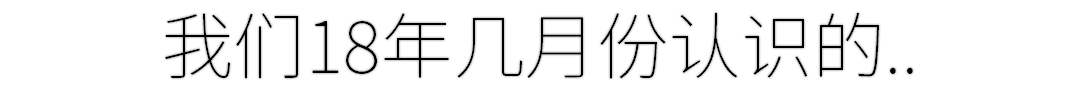
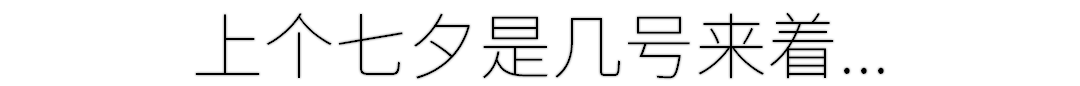
change4

Changed region(s): [[0.1528, 0.1628, 0.8556, 0.9302]]

diff --git a/css/site_global.css b/css/site_global.css
@@ -1,1 +1,1 @@
-html{min-height:100%;min-width:100%;-ms-text-size-adjust:none;}body,div,dl,dt,dd,ul,ol,li,nav,h1,h2,h3,h4,h5,h6,pre,code,form,fieldset,legend,input,button,textarea,p,blockquote,th,td,a{margin:0px;padding:0px;border-width:0px;border-style:solid;border-color:transparent;-webkit-transform-origin:left top;-ms-transform-origin:left top;-o-transform-origin:left top;transform-origin:left top;background-repeat:no-repeat;}button.submit-btn{-moz-box-sizing:content-box;-webkit-box-sizing:content-box;box-sizing:content-box;}.transition{-webkit-transition-property:background-image,background-position,background-color,border-color,border-radius,color,font-size,font-style,font-weight,letter-spacing,line-height,text-align,box-shadow,text-shadow,opacity;transition-property:background-image,background-position,background-color,border-color,border-radius,color,font-size,font-style,font-weight,letter-spacing,line-height,text-align,box-shadow,text-shadow,opacity;}.transition *{-webkit-transition:inherit;transition:inherit;}table{border-collapse:collapse;border-spacing:0px;}fieldset,img{border:0px;border-style:solid;-webkit-transform-origin:left top;-ms-transform-origin:left top;-o-transform-origin:left top;transform-origin:left top;}address,caption,cite,code,dfn,em,strong,th,var,optgroup{font-style:inherit;font-weight:inherit;}del,ins{text-decoration:none;}li{list-style:none;}caption,th{text-align:left;}h1,h2,h3,h4,h5,h6{font-size:100%;font-weight:inherit;}input,button,textarea,select,optgroup,option{font-family:inherit;font-size:inherit;font-style:inherit;font-weight:inherit;}.form-grp input,.form-grp textarea{-webkit-appearance:none;-webkit-border-radius:0;}body{font-family:Arial, Helvetica Neue, Helvetica, sans-serif;text-align:left;font-size:14px;line-height:17px;word-wrap:break-word;text-rendering:optimizeLegibility;-moz-font-feature-settings:'liga';-ms-font-feature-settings:'liga';-webkit-font-feature-settings:'liga';font-feature-settings:'liga';}a{color:inherit;text-decoration:inherit;}a:link{color:#FFFFFF;text-decoration:inherit;}a:visited{color:#FFFFFF;text-decoration:inherit;}a:hover{color:#FFFFFF;text-decoration:inherit;}a:active{color:#FFFFFF;text-decoration:inherit;}a.nontext{color:black;text-decoration:none;font-style:normal;font-weight:normal;}.normal_text{color:#000000;direction:ltr;font-family:Arial, Helvetica Neue, Helvetica, sans-serif;font-size:14px;font-style:normal;font-weight:normal;letter-spacing:0px;line-height:17px;text-align:left;text-decoration:none;text-indent:0px;text-transform:none;vertical-align:0px;padding:0px;}.list0 li:before{position:absolute;right:100%;letter-spacing:0px;text-decoration:none;font-weight:normal;font-style:normal;}.rtl-list li:before{right:auto;left:100%;}.nls-None > li:before,.nls-None .list3 > li:before,.nls-None .list6 > li:before{margin-right:6px;content:'•';}.nls-None .list1 > li:before,.nls-None .list4 > li:before,.nls-None .list7 > li:before{margin-right:6px;content:'○';}.nls-None,.nls-None .list1,.nls-None .list2,.nls-None .list3,.nls-None .list4,.nls-None .list5,.nls-None .list6,.nls-None .list7,.nls-None .list8{padding-left:34px;}.nls-None.rtl-list,.nls-None .list1.rtl-list,.nls-None .list2.rtl-list,.nls-None .list3.rtl-list,.nls-None .list4.rtl-list,.nls-None .list5.rtl-list,.nls-None .list6.rtl-list,.nls-None .list7.rtl-list,.nls-None .list8.rtl-list{padding-left:0px;padding-right:34px;}.nls-None .list2 > li:before,.nls-None .list5 > li:before,.nls-None .list8 > li:before{margin-right:6px;content:'-';}.nls-None.rtl-list > li:before,.nls-None .list1.rtl-list > li:before,.nls-None .list2.rtl-list > li:before,.nls-None .list3.rtl-list > li:before,.nls-None .list4.rtl-list > li:before,.nls-None .list5.rtl-list > li:before,.nls-None .list6.rtl-list > li:before,.nls-None .list7.rtl-list > li:before,.nls-None .list8.rtl-list > li:before{margin-right:0px;margin-left:6px;}.TabbedPanelsTab{white-space:nowrap;}.MenuBar .MenuBarView,.MenuBar .SubMenuView{display:block;list-style:none;}.MenuBar .SubMenu{display:none;position:absolute;}.NoWrap{white-space:nowrap;word-wrap:normal;}.rootelem{margin-left:auto;margin-right:auto;}.colelem{display:inline;float:left;clear:both;}.clearfix:after{content:"\0020";visibility:hidden;display:block;height:0px;clear:both;}*:first-child+html .clearfix{zoom:1;}.clip_frame{overflow:hidden;}.popup_anchor{position:relative;width:0px;height:0px;}.allow_click_through *{pointer-events:auto;}.popup_element{z-index:100000;}.svg{display:block;vertical-align:top;}span.wrap{content:'';clear:left;display:block;}span.actAsInlineDiv{display:inline-block;}.position_content,.excludeFromNormalFlow{float:left;}.preload_images{position:absolute;overflow:hidden;left:-9999px;top:-9999px;height:1px;width:1px;}.preload{height:1px;width:1px;}.animateStates{-webkit-transition:0.3s ease-in-out;-moz-transition:0.3s ease-in-out;-o-transition:0.3s ease-in-out;transition:0.3s ease-in-out;}[data-whatinput="mouse"] *:focus,[data-whatinput="touch"] *:focus,input:focus,textarea:focus{outline:none;}textarea{resize:none;overflow:auto;}.allow_click_through,.fld-prompt{pointer-events:none;}.wrapped-input{position:absolute;top:0px;left:0px;background:transparent;border:none;}.submit-btn{z-index:50000;cursor:pointer;}.anchor_item{width:22px;height:18px;}.MenuBar .SubMenuVisible,.MenuBarVertical .SubMenuVisible,.MenuBar .SubMenu .SubMenuVisible,.popup_element.Active,span.actAsPara,.actAsDiv,a.nonblock.nontext,img.block{display:block;}.widget_invisible,.js .invi,.js .mse_pre_init{visibility:hidden;}.ose_ei{visibility:hidden;z-index:0;}.no_vert_scroll{overflow-y:hidden;}.always_vert_scroll{overflow-y:scroll;}.always_horz_scroll{overflow-x:scroll;}.fullscreen{overflow:hidden;left:0px;top:0px;position:fixed;height:100%;width:100%;-moz-box-sizing:border-box;-webkit-box-sizing:border-box;-ms-box-sizing:border-box;box-sizing:border-box;}.fullwidth{position:absolute;}.borderbox{-moz-box-sizing:border-box;-webkit-box-sizing:border-box;-ms-box-sizing:border-box;box-sizing:border-box;}.scroll_wrapper{position:absolute;overflow:auto;left:0px;right:0px;top:0px;bottom:0px;padding-top:0px;padding-bottom:0px;margin-top:0px;margin-bottom:0px;}.browser_width > *{position:absolute;left:0px;right:0px;}.grpelem,.accordion_wrapper{display:inline;float:left;}.fld-checkbox input[type=checkbox],.fld-radiobutton input[type=radio]{position:absolute;overflow:hidden;clip:rect(0px, 0px, 0px, 0px);height:1px;width:1px;margin:-1px;padding:0px;border:0px;}.fld-checkbox input[type=checkbox] + label,.fld-radiobutton input[type=radio] + label{display:inline-block;background-repeat:no-repeat;cursor:pointer;float:left;width:100%;height:100%;}.pointer_cursor,.fld-recaptcha-mode,.fld-recaptcha-refresh,.fld-recaptcha-help{cursor:pointer;}p,h1,h2,h3,h4,h5,h6,ol,ul,span.actAsPara{max-height:1000000px;}.superscript{vertical-align:super;font-size:66%;line-height:0px;}.subscript{vertical-align:sub;font-size:66%;line-height:0px;}.horizontalSlideShow{-ms-touch-action:pan-y;touch-action:pan-y;}.verticalSlideShow{-ms-touch-action:pan-x;touch-action:pan-x;}.colelem100,.verticalspacer{clear:both;}.list0 li,.MenuBar .MenuItemContainer,.SlideShowContentPanel .fullscreen img,.css_verticalspacer .verticalspacer{position:relative;}.popup_element.Inactive,.js .disn,.js .an_invi,.hidden,.breakpoint{display:none;}#muse_css_mq{position:absolute;display:none;background-color:#FFFFFE;}.fluid_height_spacer{width:0.01px;}.muse_check_css{display:none;position:fixed;}@media screen and (-webkit-min-device-pixel-ratio:0){body{text-rendering:auto;}}
+html{min-height:100%;min-width:100%;-ms-text-size-adjust:none;}body,div,dl,dt,dd,ul,ol,li,nav,h1,h2,h3,h4,h5,h6,pre,code,form,fieldset,legend,input,button,textarea,p,blockquote,th,td,a{margin:0px;padding:0px;border-width:0px;border-style:solid;border-color:transparent;-webkit-transform-origin:left top;-ms-transform-origin:left top;-o-transform-origin:left top;transform-origin:left top;background-repeat:no-repeat;}button.submit-btn{-moz-box-sizing:content-box;-webkit-box-sizing:content-box;box-sizing:content-box;}.transition{-webkit-transition-property:background-image,background-position,background-color,border-color,border-radius,color,font-size,font-style,font-weight,letter-spacing,line-height,text-align,box-shadow,text-shadow,opacity;transition-property:background-image,background-position,background-color,border-color,border-radius,color,font-size,font-style,font-weight,letter-spacing,line-height,text-align,box-shadow,text-shadow,opacity;}.transition *{-webkit-transition:inherit;transition:inherit;}table{border-collapse:collapse;border-spacing:0px;}fieldset,img{border:0px;border-style:solid;-webkit-transform-origin:left top;-ms-transform-origin:left top;-o-transform-origin:left top;transform-origin:left top;}address,caption,cite,code,dfn,em,strong,th,var,optgroup{font-style:inherit;font-weight:inherit;}del,ins{text-decoration:none;}li{list-style:none;}caption,th{text-align:left;}h1,h2,h3,h4,h5,h6{font-size:100%;font-weight:inherit;}input,button,textarea,select,optgroup,option{font-family:inherit;font-size:inherit;font-style:inherit;font-weight:inherit;}.form-grp input,.form-grp textarea{-webkit-appearance:none;-webkit-border-radius:0;}body{font-family:Arial, Helvetica Neue, Helvetica, sans-serif;text-align:left;font-size:14px;line-height:17px;word-wrap:break-word;text-rendering:optimizeLegibility;-moz-font-feature-settings:'liga';-ms-font-feature-settings:'liga';-webkit-font-feature-settings:'liga';font-feature-settings:'liga';}a:link{color:#FFFFFF;text-decoration:inherit;}a:visited{color:#FFFFFF;text-decoration:inherit;}a:hover{color:#FFFFFF;text-decoration:inherit;}a:active{color:#FFFFFF;text-decoration:inherit;}a.nontext{color:black;text-decoration:none;font-style:normal;font-weight:normal;}.normal_text{color:#000000;direction:ltr;font-family:Arial, Helvetica Neue, Helvetica, sans-serif;font-size:14px;font-style:normal;font-weight:normal;letter-spacing:0px;line-height:17px;text-align:left;text-decoration:none;text-indent:0px;text-transform:none;vertical-align:0px;padding:0px;}.list0 li:before{position:absolute;right:100%;letter-spacing:0px;text-decoration:none;font-weight:normal;font-style:normal;}.rtl-list li:before{right:auto;left:100%;}.nls-None > li:before,.nls-None .list3 > li:before,.nls-None .list6 > li:before{margin-right:6px;content:'•';}.nls-None .list1 > li:before,.nls-None .list4 > li:before,.nls-None .list7 > li:before{margin-right:6px;content:'○';}.nls-None,.nls-None .list1,.nls-None .list2,.nls-None .list3,.nls-None .list4,.nls-None .list5,.nls-None .list6,.nls-None .list7,.nls-None .list8{padding-left:34px;}.nls-None.rtl-list,.nls-None .list1.rtl-list,.nls-None .list2.rtl-list,.nls-None .list3.rtl-list,.nls-None .list4.rtl-list,.nls-None .list5.rtl-list,.nls-None .list6.rtl-list,.nls-None .list7.rtl-list,.nls-None .list8.rtl-list{padding-left:0px;padding-right:34px;}.nls-None .list2 > li:before,.nls-None .list5 > li:before,.nls-None .list8 > li:before{margin-right:6px;content:'-';}.nls-None.rtl-list > li:before,.nls-None .list1.rtl-list > li:before,.nls-None .list2.rtl-list > li:before,.nls-None .list3.rtl-list > li:before,.nls-None .list4.rtl-list > li:before,.nls-None .list5.rtl-list > li:before,.nls-None .list6.rtl-list > li:before,.nls-None .list7.rtl-list > li:before,.nls-None .list8.rtl-list > li:before{margin-right:0px;margin-left:6px;}.TabbedPanelsTab{white-space:nowrap;}.MenuBar .MenuBarView,.MenuBar .SubMenuView{display:block;list-style:none;}.MenuBar .SubMenu{display:none;position:absolute;}.NoWrap{white-space:nowrap;word-wrap:normal;}.rootelem{margin-left:auto;margin-right:auto;}.colelem{display:inline;float:left;clear:both;}.clearfix:after{content:"\0020";visibility:hidden;display:block;height:0px;clear:both;}*:first-child+html .clearfix{zoom:1;}.clip_frame{overflow:hidden;}.popup_anchor{position:relative;width:0px;height:0px;}.allow_click_through *{pointer-events:auto;}.popup_element{z-index:100000;}.svg{display:block;vertical-align:top;}span.wrap{content:'';clear:left;display:block;}span.actAsInlineDiv{display:inline-block;}.position_content,.excludeFromNormalFlow{float:left;}.preload_images{position:absolute;overflow:hidden;left:-9999px;top:-9999px;height:1px;width:1px;}.preload{height:1px;width:1px;}.animateStates{-webkit-transition:0.3s ease-in-out;-moz-transition:0.3s ease-in-out;-o-transition:0.3s ease-in-out;transition:0.3s ease-in-out;}[data-whatinput="mouse"] *:focus,[data-whatinput="touch"] *:focus,input:focus,textarea:focus{outline:none;}textarea{resize:none;overflow:auto;}.allow_click_through,.fld-prompt{pointer-events:none;}.wrapped-input{position:absolute;top:0px;left:0px;background:transparent;border:none;}.submit-btn{z-index:50000;cursor:pointer;}.anchor_item{width:22px;height:18px;}.MenuBar .SubMenuVisible,.MenuBarVertical .SubMenuVisible,.MenuBar .SubMenu .SubMenuVisible,.popup_element.Active,span.actAsPara,.actAsDiv,a.nonblock.nontext,img.block{display:block;}.widget_invisible,.js .invi,.js .mse_pre_init{visibility:hidden;}.ose_ei{visibility:hidden;z-index:0;}.no_vert_scroll{overflow-y:hidden;}.always_vert_scroll{overflow-y:scroll;}.always_horz_scroll{overflow-x:scroll;}.fullscreen{overflow:hidden;left:0px;top:0px;position:fixed;height:100%;width:100%;-moz-box-sizing:border-box;-webkit-box-sizing:border-box;-ms-box-sizing:border-box;box-sizing:border-box;}.fullwidth{position:absolute;}.borderbox{-moz-box-sizing:border-box;-webkit-box-sizing:border-box;-ms-box-sizing:border-box;box-sizing:border-box;}.scroll_wrapper{position:absolute;overflow:auto;left:0px;right:0px;top:0px;bottom:0px;padding-top:0px;padding-bottom:0px;margin-top:0px;margin-bottom:0px;}.browser_width > *{position:absolute;left:0px;right:0px;}.grpelem,.accordion_wrapper{display:inline;float:left;}.fld-checkbox input[type=checkbox],.fld-radiobutton input[type=radio]{position:absolute;overflow:hidden;clip:rect(0px, 0px, 0px, 0px);height:1px;width:1px;margin:-1px;padding:0px;border:0px;}.fld-checkbox input[type=checkbox] + label,.fld-radiobutton input[type=radio] + label{display:inline-block;background-repeat:no-repeat;cursor:pointer;float:left;width:100%;height:100%;}.pointer_cursor,.fld-recaptcha-mode,.fld-recaptcha-refresh,.fld-recaptcha-help{cursor:pointer;}p,h1,h2,h3,h4,h5,h6,ol,ul,span.actAsPara{max-height:1000000px;}.superscript{vertical-align:super;font-size:66%;line-height:0px;}.subscript{vertical-align:sub;font-size:66%;line-height:0px;}.horizontalSlideShow{-ms-touch-action:pan-y;touch-action:pan-y;}.verticalSlideShow{-ms-touch-action:pan-x;touch-action:pan-x;}.colelem100,.verticalspacer{clear:both;}.list0 li,.MenuBar .MenuItemContainer,.SlideShowContentPanel .fullscreen img,.css_verticalspacer .verticalspacer{position:relative;}.popup_element.Inactive,.js .disn,.js .an_invi,.hidden,.breakpoint{display:none;}#muse_css_mq{position:absolute;display:none;background-color:#FFFFFE;}.fluid_height_spacer{width:0.01px;}.muse_check_css{display:none;position:fixed;}@media screen and (-webkit-min-device-pixel-ratio:0){body{text-rendering:auto;}}

diff --git a/timeline.html b/timeline.html
@@ -18,7 +18,7 @@ if(typeof Muse == "undefined") window.Muse = {}; window.Muse.assets = {"required
   <!-- CSS -->
   <link rel="stylesheet" type="text/css" href="css/site_global.css?crc=3808696240"/>
   <link rel="stylesheet" type="text/css" href="css/master_timeline-active.css?crc=236332962"/>
-  <link rel="stylesheet" type="text/css" href="css/timeline.css?crc=4225722446" id="pagesheet"/>
+  <link rel="stylesheet" type="text/css" href="css/timeline.css?crc=4291291038" id="pagesheet"/>
     <!--custom head HTML-->
   <link href="./js/vendor/bootstrap/css/bootstrap.min.css" rel="stylesheet">
 <link href="./css/flat-ui.min.css" rel="stylesheet">
@@ -98,31 +98,9 @@ if(typeof Muse == "undefined") window.Muse = {}; window.Muse.assets = {"required
   <li class="layui-timeline-item">
     <i class="layui-icon layui-timeline-axis"></i>
     <div class="layui-timeline-content layui-text">
-      <h3 class="layui-timeline-title">2019年8月3日</h3>
-      <p>
-        萨斯买了域名。
-      </p>
-    </div>
-  </li>
-  <li class="layui-timeline-item">
-    <i class="layui-icon layui-timeline-axis"></i>
-    <div class="layui-timeline-content layui-text">
-      <h3 class="layui-timeline-title">2019年8月2日</h3>
-      <p>
-        萨斯开始整我们的网站。
-      </p>
-    </div>
-  </li>
-  <li class="layui-timeline-item">
-    <i class="layui-icon layui-timeline-axis"></i>
-    <div class="layui-timeline-content layui-text">
       <h3 class="layui-timeline-title">2019年7月27日</h3>
       <p>
         第二次古巴导弹危机结束。
-		<br>获得BUFF “成功解决的危机”
-		<br>稳定度 +70%
-		<br>白→萨好感度 +100
-		<br>萨→白好感度 +100
       </p>
     </div>
 	</li>
@@ -132,10 +110,6 @@ if(typeof Muse == "undefined") window.Muse = {}; window.Muse.assets = {"required
       <h3 class="layui-timeline-title">2019年7月20日</h3>
       <p>
         第二次古巴导弹危机开始。【？？？？？
-		<br>获得DEBUFF “真正的危机”
-		<br>稳定度 -60%
-		<br>白→萨好感度 -70
-		<br>萨→白好感度 -40
       </p>
     </div>
   </li>
@@ -145,104 +119,76 @@ if(typeof Muse == "undefined") window.Muse = {}; window.Muse.assets = {"required
       <h3 class="layui-timeline-title">2019年7月13日</h3>
       <p>
         第一次古巴导弹危机。【？？？
-		<br>获得DEBUFF “失败的解决方案”
-		<br>稳定度 -20%
-		<br>白→萨好感度 -20
-		<br>萨→白好感度 -10
-		<br>
-		<br>获得DEBUFF “危机的开始”
-		<br>（可能会触发进一步事件）
       </p>
     </div>
   </li>
   <li class="layui-timeline-item">
     <i class="layui-icon layui-timeline-axis"></i>
     <div class="layui-timeline-content layui-text">
-      <h3 class="layui-timeline-title">2019年6月</h3>
+      <h3 class="layui-timeline-title">2019年6月29日</h3>
       <p>
-        半年不见。白雀第二次与萨斯发语音。
-		<br>获得BUFF “白雀的语音 II”
-		<br>稳定度 +15%
-		<br>白→萨好感度 +15
-		<br>萨→白好感度 +30
+        白雀第二次与萨斯发语音。
       </p>
     </div>
   </li>
   <li class="layui-timeline-item">
     <i class="layui-icon layui-timeline-axis"></i>
     <div class="layui-timeline-content layui-text">
-      <h3 class="layui-timeline-title">2019年2月</h3>
+      <h3 class="layui-timeline-title">2019年2月18日</h3>
       <p>
         白雀×萨斯
-		<br>获得BUFF “白萨”
-		<br>稳定度 +70%
-		<br>白→萨好感度 +100
-		<br>萨→白好感度 +100
       </p>
     </div>
   </li>
   <li class="layui-timeline-item">
     <i class="layui-icon layui-timeline-axis"></i>
     <div class="layui-timeline-content layui-text">
-      <h3 class="layui-timeline-title">-----断片期-----</h3>
-    </div>
-  </li>
-  <li class="layui-timeline-item">
-    <i class="layui-icon layui-timeline-axis"></i>
-    <div class="layui-timeline-content layui-text">
-      <h3 class="layui-timeline-title">2018年9月</h3>
+      <h3 class="layui-timeline-title">2018年8月29日</h3>
       <p>
         白雀第一次与萨斯发语音。
-		<br>获得BUFF “白雀的语音”
-		<br>稳定度 +5%
-		<br>白→萨好感度 +15
-		<br>萨→白好感度 +20
       </p>
     </div>
   </li>
   <li class="layui-timeline-item">
     <i class="layui-icon layui-timeline-axis"></i>
     <div class="layui-timeline-content layui-text">
-      <h3 class="layui-timeline-title">2018年8月</h3>
+      <h3 class="layui-timeline-title">2018年8月28日</h3>
+      <p>
+        萨斯第一次与白雀发语音。
+      </p>
+    </div>
+  </li>
+  <li class="layui-timeline-item">
+    <i class="layui-icon layui-timeline-axis"></i>
+    <div class="layui-timeline-content layui-text">
+      <h3 class="layui-timeline-title">2018年8月17日</h3>
       <p>
         晏岑×白雀
-		<br>获得DEBUFF “失败的萨斯”
-		<br>稳定度 -60%
-		<br>白→萨好感度 -40
-		<br>萨→白好感度 -40
       </p>
     </div>
   </li>
   <li class="layui-timeline-item">
     <i class="layui-icon layui-timeline-axis"></i>
     <div class="layui-timeline-content layui-text">
-      <h3 class="layui-timeline-title">2018年8月</h3>
-      <p>
-        萨斯第一次与白雀发语音
-		<br>获得BUFF “萨斯的语音”
-		<br>稳定度 +5%
-		<br>白→萨好感度 +20
-		<br>萨→白好感度 +15
-      </p>
-    </div>
-  </li>
-  <li class="layui-timeline-item">
-    <i class="layui-icon layui-timeline-axis"></i>
-    <div class="layui-timeline-content layui-text">
-      <h3 class="layui-timeline-title">2018年8月</h3>
+      <h3 class="layui-timeline-title">2018年7月23日</h3>
       <p>
         我们第一次在MC中联机。
-		<br>获得BUFF “MC联机”
-		<br>稳定度 +5%
-		<br>白→萨好感度 +15
-		<br>萨→白好感度 +15
       </p>
     </div>
   </li>
   <li class="layui-timeline-item">
     <i class="layui-icon layui-timeline-axis"></i>
     <div class="layui-timeline-content layui-text">
-      <h3 class="layui-timeline-title">2018年6月</h3>
+      <h3 class="layui-timeline-title">2018年2月21日</h3>
+      <p>
+        我们第一次一起玩茶绘。
+      </p>
+    </div>
+  </li>
+  <li class="layui-timeline-item">
+    <i class="layui-icon layui-timeline-axis"></i>
+    <div class="layui-timeline-content layui-text">
+      <h3 class="layui-timeline-title">2018年2月</h3>
       <p>
         我们相识。
       </p>
@@ -252,7 +198,7 @@ if(typeof Muse == "undefined") window.Muse = {}; window.Muse.assets = {"required
      </div>
     </div>
    </div>
-   <div class="verticalspacer" data-offset-top="0" data-content-above-spacer="1726" data-content-below-spacer="25" data-sizePolicy="fixed" data-pintopage="page_fixedLeft"></div>
+   <div class="verticalspacer" data-offset-top="0" data-content-above-spacer="1020" data-content-below-spacer="26" data-sizePolicy="fixed" data-pintopage="page_fixedLeft"></div>
    <div class="browser_width grpelem" id="u580-bw">
     <div id="u580"><!-- group -->
      <div class="clearfix" id="u580_align_to_page">

diff --git a/css/timeline.css b/css/timeline.css
@@ -1,1 +1,1 @@
-.version.timeline{color:#0000FB;background-color:#DF684E;}#muse_css_mq{background-color:#FFFFFF;}#page{z-index:1;min-height:1751px;background-image:none;border-width:0px;border-color:#000000;background-color:transparent;width:100%;max-width:1080px;margin-left:auto;margin-right:auto;}#pu406{z-index:3;margin-right:-10000px;width:100%;}.js body{visibility:hidden;}.js body.initialized{visibility:visible;}#u406,#u406-bw{z-index:3;min-height:121px;}#u669{z-index:7;width:217px;min-height:114px;position:relative;margin-left:40%;}#u670{z-index:8;min-height:57px;}#u670-bw{z-index:8;min-height:57px;margin-top:8px;}#pu354{z-index:2;width:100%;}#u354{z-index:2;min-height:5px;}#u354-bw{z-index:2;min-height:5px;margin-top:169px;}#u514{z-index:4;min-height:602px;position:relative;margin-right:-10000px;width:57.5%;left:4.63%;}.css_verticalspacer .verticalspacer{height:calc(100vh - 1751px);}#u580_align_to_page{margin-left:auto;margin-right:auto;position:relative;}#u581{z-index:6;min-height:18px;position:relative;margin-right:-10000px;margin-top:7px;width:15.93%;left:41.67%;}#u580,#u580-bw{z-index:5;min-height:25px;}.html{background-color:#ECF0F1;}body{position:relative;min-width:960px;}.verticalspacer{min-height:1px;}
+.version.timeline{color:#0000FF;background-color:#C7E79E;}#muse_css_mq{background-color:#FFFFFF;}#page{z-index:1;min-height:1032px;background-image:none;border-width:0px;border-color:#000000;background-color:transparent;width:100%;max-width:1080px;margin-left:auto;margin-right:auto;}#pu406{z-index:3;margin-right:-10000px;width:100%;}.js body{visibility:hidden;}.js body.initialized{visibility:visible;}#u406,#u406-bw{z-index:3;min-height:121px;}#u669{z-index:7;width:217px;min-height:114px;position:relative;margin-left:40%;}#u670{z-index:8;min-height:57px;}#u670-bw{z-index:8;min-height:57px;margin-top:8px;}#pu354{z-index:2;width:100%;}#u354{z-index:2;min-height:5px;}#u354-bw{z-index:2;min-height:5px;margin-top:169px;}#u514{z-index:4;min-height:689px;position:relative;margin-right:-10000px;width:57.5%;left:4.63%;}.css_verticalspacer .verticalspacer{height:calc(100vh - 1046px);}#u580{z-index:5;min-height:25px;}#u580_align_to_page{margin-left:auto;margin-right:auto;position:relative;}#u581{z-index:6;min-height:18px;position:relative;margin-right:-10000px;margin-top:7px;width:15.93%;left:42.04%;}#u580-bw{z-index:5;min-height:25px;margin-bottom:-1px;margin-top:2px;}.html{background-color:#ECF0F1;}body{position:relative;min-width:960px;}.verticalspacer{min-height:1px;}

diff --git a/bswz-0.html b/bswz-0.html
@@ -16,9 +16,9 @@ if(typeof Muse == "undefined") window.Muse = {}; window.Muse.assets = {"required
   
   <title>轮萨外传 #4 落羽 | 白雀×萨斯</title>
   <!-- CSS -->
-  <link rel="stylesheet" type="text/css" href="css/site_global.css?crc=3808696240"/>
-  <link rel="stylesheet" type="text/css" href="css/master_bswz-0-active.css?crc=374546156"/>
-  <link rel="stylesheet" type="text/css" href="css/bswz-0.css?crc=14033476" id="pagesheet"/>
+  <link rel="stylesheet" type="text/css" href="css/site_global.css?crc=3842788024"/>
+  <link rel="stylesheet" type="text/css" href="css/master_bswz-0-active.css?crc=511946160"/>
+  <link rel="stylesheet" type="text/css" href="css/bswz-0.css?crc=3994839770" id="pagesheet"/>
     <!--custom head HTML-->
   <link href="./js/vendor/bootstrap/css/bootstrap.min.css" rel="stylesheet">
 <link href="./css/flat-ui.min.css" rel="stylesheet">
@@ -67,15 +67,15 @@ if(typeof Muse == "undefined") window.Muse = {}; window.Muse.assets = {"required
     </div>
      </div>
     </div>
-    <div class="clip_frame grpelem" id="u1193"><!-- image -->
-     <img class="block" id="u1193_img" src="images/lswz4.png?crc=299787486" alt="" data-heightwidthratio="15.729166666666666" data-image-width="960" data-image-height="15100"/>
+    <div class="clip_frame grpelem" id="u1413"><!-- image -->
+     <img class="block" id="u1413_img" src="images/bswz0.png?crc=3777109509" alt="" data-heightwidthratio="11.09375" data-image-width="960" data-image-height="10650"/>
     </div>
    </div>
-   <div class="verticalspacer" data-offset-top="0" data-content-above-spacer="15160" data-content-below-spacer="25" data-sizePolicy="fixed" data-pintopage="page_fixedLeft"></div>
-   <div class="browser_width grpelem" id="u1195-bw">
-    <div id="u1195"><!-- group -->
-     <div class="clearfix" id="u1195_align_to_page">
-      <div class="grpelem" id="u1190"><!-- custom html -->
+   <div class="verticalspacer" data-offset-top="0" data-content-above-spacer="10710" data-content-below-spacer="26" data-sizePolicy="fixed" data-pintopage="page_fixedLeft"></div>
+   <div class="browser_width grpelem" id="u1423-bw">
+    <div id="u1423"><!-- group -->
+     <div class="clearfix" id="u1423_align_to_page">
+      <div class="grpelem" id="u1424"><!-- custom html -->
        <div class="container">
       <h6>本站由 白雀&萨斯 用爱发电</h1>
 </div>

diff --git a/css/bswz-0.css b/css/bswz-0.css
@@ -1,1 +1,1 @@
-.version.bswz_0{color:#000000;background-color:#D62244;}#muse_css_mq{background-color:#FFFFFF;}#page{z-index:1;min-height:15185px;background-image:none;border-width:0px;border-color:#000000;background-color:transparent;width:100%;max-width:1080px;margin-left:auto;margin-right:auto;}#pu1191{z-index:2;margin-right:-10000px;width:100%;}#u1191{z-index:2;min-height:5px;}.js body{visibility:hidden;}.js body.initialized{visibility:visible;}#u1191-bw{z-index:2;min-height:5px;margin-top:500px;}#u1192,#u1192-bw{z-index:3;min-height:121px;}#u1193{z-index:4;position:relative;margin-right:-10000px;margin-top:60px;width:88.89%;left:5.56%;}.css_verticalspacer .verticalspacer{height:calc(100vh - 15185px);}#u1195_align_to_page{margin-left:auto;margin-right:auto;position:relative;}#u1190{z-index:7;min-height:18px;position:relative;margin-right:-10000px;margin-top:7px;width:15.93%;left:41.39%;}#u1195,#u1195-bw{z-index:6;min-height:25px;}.html{background-color:#ECF0F1;}body{position:relative;min-width:960px;}.verticalspacer{min-height:1px;}#u1193_img{width:100%;}
+.version.bswz_0{color:#0000EE;background-color:#1C6ADA;}#muse_css_mq{background-color:#FFFFFF;}#page{z-index:1;min-height:10737px;background-image:none;border-width:0px;border-color:#000000;background-color:transparent;width:100%;max-width:1080px;margin-left:auto;margin-right:auto;}#pu1191{z-index:2;margin-right:-10000px;width:100%;}#u1191{z-index:2;min-height:5px;}.js body{visibility:hidden;}.js body.initialized{visibility:visible;}#u1191-bw{z-index:2;min-height:5px;margin-top:500px;}#u1192,#u1192-bw{z-index:3;min-height:121px;}#u1413{z-index:4;position:relative;margin-right:-10000px;margin-top:60px;width:88.89%;left:5.56%;}.css_verticalspacer .verticalspacer{height:calc(100vh - 10736px);}#u1423{z-index:6;min-height:25px;}#u1423_align_to_page{margin-left:auto;margin-right:auto;position:relative;}#u1424{z-index:7;min-height:18px;position:relative;margin-right:-10000px;margin-top:7px;width:15.93%;left:42.04%;}#u1423-bw{z-index:6;min-height:25px;margin-top:1px;}.html{background-color:#ECF0F1;}body{position:relative;min-width:960px;}.verticalspacer{min-height:1px;}#u1413_img{width:100%;}

diff --git a/17.html b/17.html
@@ -11,21 +11,21 @@
 document.documentElement.className = document.documentElement.className.replace(/\bnojs\b/g, 'js');
 
 // Check that all required assets are uploaded and up-to-date
-if(typeof Muse == "undefined") window.Muse = {}; window.Muse.assets = {"required":["museutils.js", "museconfig.js", "jquery.watch.js", "require.js", "6.css"], "outOfDate":[]};
+if(typeof Muse == "undefined") window.Muse = {}; window.Muse.assets = {"required":["museutils.js", "museconfig.js", "jquery.watch.js", "require.js", "17.css"], "outOfDate":[]};
 </script>
   
-  <title>6</title>
+  <title>17</title>
   <!-- CSS -->
-  <link rel="stylesheet" type="text/css" href="css/site_global.css?crc=3808696240"/>
+  <link rel="stylesheet" type="text/css" href="css/site_global.css?crc=3842788024"/>
   <link rel="stylesheet" type="text/css" href="css/master_____.css?crc=4288203175"/>
-  <link rel="stylesheet" type="text/css" href="css/6.css?crc=468164555" id="pagesheet"/>
+  <link rel="stylesheet" type="text/css" href="css/17.css?crc=468164555" id="pagesheet"/>
    </head>
  <body class="always_horz_scroll always_vert_scroll">
 
   <div class="clearfix borderbox" id="page"><!-- column -->
-   <img class="colelem" id="u995-10" alt="是啊....6月... 唉.... 上个七夕.... 唉，" src="images/u995-10.png?crc=198929500" data-image-width="1080"/><!-- rasterized frame -->
+   <img class="colelem" id="u995-10" alt="是啊....6月... 唉.... 上个七夕.... 唉，" src="images/u995-10.png?crc=3959168454" data-image-width="1080"/><!-- rasterized frame -->
    <img class="colelem" id="u994-4" alt="这个七夕，和我过吧" src="images/u994-4.png?crc=512666608" data-image-width="1080"/><!-- rasterized frame -->
-   <img class="colelem" id="u1006-4" alt="可以 / 不可以" src="images/u1006-4.png?crc=244987591" data-image-width="1080"/><!-- rasterized frame -->
+   <img class="colelem" id="u1006-4" alt="可以 / 不可以" src="images/u1006-4.png?crc=3764198708" data-image-width="1080"/><!-- rasterized frame -->
    <div class="browser_width colelem" id="u766-bw">
     <div id="u766"><!-- custom html -->
      <script src="./js/vendor/jquery.min.js"></script>

diff --git a/7.html b/7.html
@@ -16,15 +16,15 @@ if(typeof Muse == "undefined") window.Muse = {}; window.Muse.assets = {"required
   
   <title>7</title>
   <!-- CSS -->
-  <link rel="stylesheet" type="text/css" href="css/site_global.css?crc=3808696240"/>
+  <link rel="stylesheet" type="text/css" href="css/site_global.css?crc=3842788024"/>
   <link rel="stylesheet" type="text/css" href="css/master_____.css?crc=4288203175"/>
   <link rel="stylesheet" type="text/css" href="css/7.css?crc=3784611157" id="pagesheet"/>
    </head>
  <body class="always_horz_scroll always_vert_scroll">
 
   <div class="clearfix borderbox" id="page"><!-- column -->
-   <img class="colelem" id="u980-14" alt="是啊.. 今天是七夕... 【笑】 七夕... 啊.. 对了...." src="images/u980-14.png?crc=175986177" data-image-width="1080"/><!-- rasterized frame -->
-   <img class="colelem" id="u981-4" alt="我们18年几月份认识的.." src="images/u981-4.png?crc=331154661" data-image-width="1080"/><!-- rasterized frame -->
+   <img class="colelem" id="u980-14" alt="是啊.. 今天是七夕... 【笑】 七夕... 啊.. 对了...." src="images/u980-14.png?crc=4081080106" data-image-width="1080"/><!-- rasterized frame -->
+   <img class="colelem" id="u981-4" alt="上个七夕是几号来着..." src="images/u981-4.png?crc=3946022351" data-image-width="1080"/><!-- rasterized frame -->
    <div class="browser_width colelem" id="u766-bw">
     <div id="u766"><!-- custom html -->
      <script src="./js/vendor/jquery.min.js"></script>

diff --git a/css/17.css b/css/17.css
@@ -1,0 +1,1 @@
+.version._17{color:#00001B;background-color:#E79FCB;}#page{z-index:1;min-height:364.95000000000005px;background-image:none;border-width:0px;border-color:#000000;background-color:transparent;padding-top:62px;padding-bottom:73.04999999999995px;width:100%;max-width:1080px;margin-left:auto;margin-right:auto;}#u995-10{z-index:3;display:block;vertical-align:top;position:relative;width:100%;margin-left:0%;left:0px;}#u994-4{z-index:13;display:block;vertical-align:top;position:relative;width:100%;margin-left:0%;left:0px;}#u1006-4{z-index:17;display:block;vertical-align:top;position:relative;width:100%;margin-left:0%;left:0px;}#u766{z-index:2;min-height:1px;}.js body{visibility:hidden;}.js body.initialized{visibility:visible;}#u766-bw{z-index:2;min-height:1px;margin-top:76px;}.css_verticalspacer .verticalspacer{height:calc(100vh - 500px);}#muse_css_mq,.html{background-color:#FFFFFF;}body{position:relative;min-width:960px;}

diff --git a/css/master_bswz-0-active.css b/css/master_bswz-0-active.css
@@ -1,1 +1,1 @@
-#u1193{background-color:transparent;}#u1195{background-color:#ECF0F1;}#u1195_align_to_page{max-width:1080px;}#u1191,#u1192,#u1190{border-width:0px;border-color:transparent;background-color:transparent;}
+#u1413{background-color:transparent;}#u1423{background-color:#ECF0F1;}#u1423_align_to_page{max-width:1080px;}#u1191,#u1192,#u1424{border-width:0px;border-color:transparent;background-color:transparent;}
